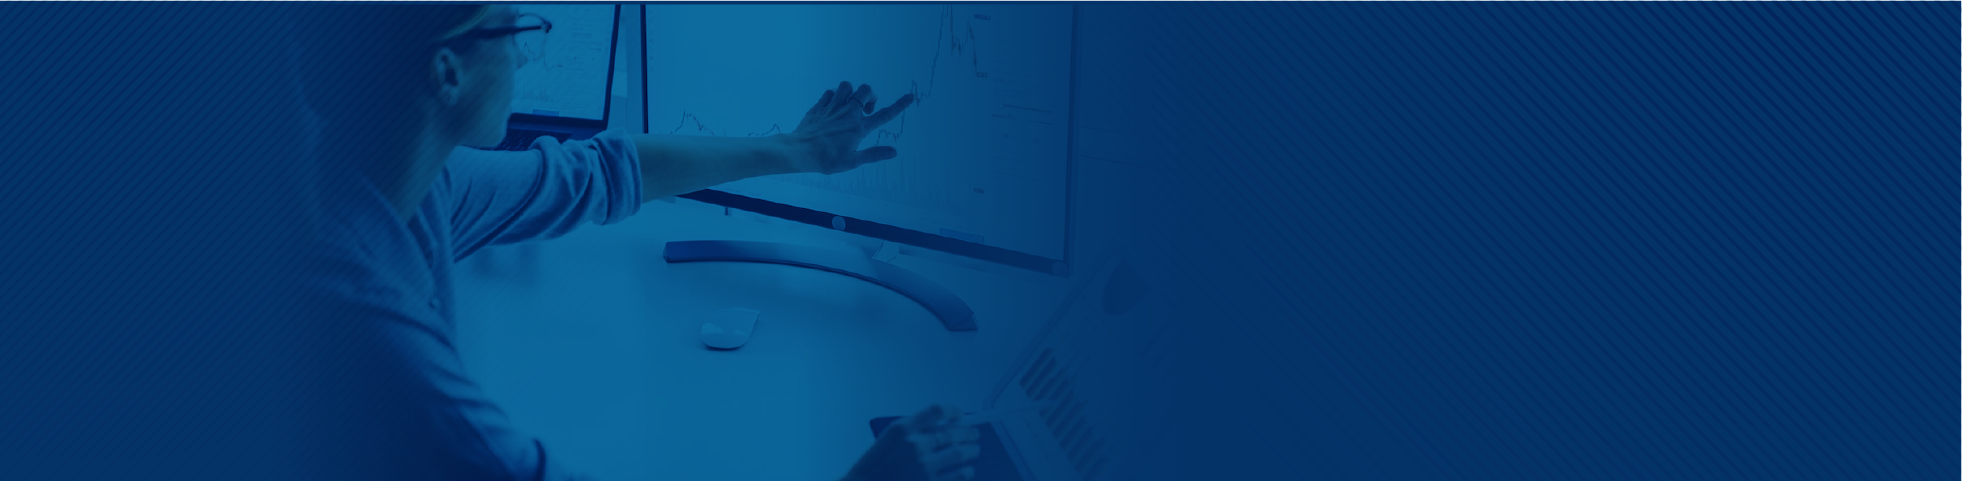
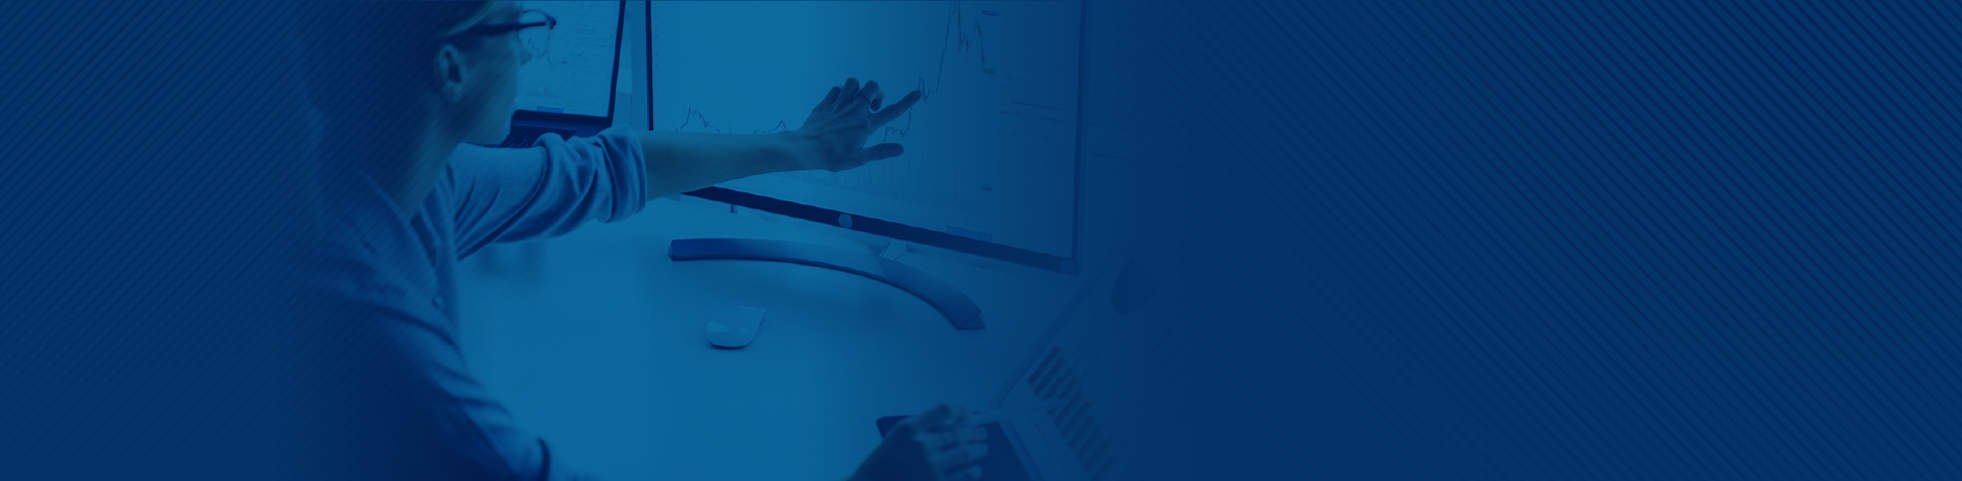
Header-changes

diff --git a/assets/css/style.css b/assets/css/style.css
@@ -35,8 +35,7 @@ li{
     min-height: 480px;
     background: url('../images/banner-image.png');
     background-repeat: no-repeat;
-    background-size: cover;
-    max-width: 1920px;
+    background-size: cover; 
     margin: 0 auto;
     padding: 0px 20px 2em 20px;
 }
@@ -45,6 +44,10 @@ li{
     max-width: 1200px;
     margin: 0px auto;
     padding-top: 3em;
+}
+
+.logo img{
+    width:300px
 }
 
 .form-container {
@@ -227,8 +230,7 @@ textarea {
 /*************** Footer Area ****************/
 
 
-#footer {
-    max-width: 1920px;
+#footer { 
     margin: 0 auto;
     padding: 3em 20px;
     min-height: 250px;
@@ -296,11 +298,6 @@ textarea {
 
 /*************** Footer Area Closed****************/
 
-@media(max-width:915px) {
-    .form-container { 
-        justify-content: center; 
-    }
-}
 
 @media (max-width:1071px){
     .content-container { 
@@ -308,3 +305,38 @@ textarea {
         
     }
 }
+
+@media(max-width:915px) {
+    .form-container { 
+        justify-content: center; 
+    }
+ 
+}
+@media(max-width:600px) {
+    .logo img{
+        width:240px
+    }
+    .heading-area h1 {
+        font-size: 3.5em; 
+    }
+    
+    .heading-area h4 {
+        font-size: 1.5em; 
+    }
+ 
+}
+@media(max-width:450px) {
+    .heading-area h1 {
+        font-size: 2.5em; 
+    }
+    
+    .heading-area h4 {
+        font-size: 1.3em; 
+    }
+    .logo img{
+        width:180px
+    }
+}
+
+
+

diff --git a/index.html b/index.html
@@ -14,7 +14,7 @@
     <header id="banner" class="banner-area">
         <div class="banner-container">
             <div class="logo">
-                <img src="assets/images/logo.png" alt="" width="300px">
+                <img src="assets/images/logo.png" alt="" >
             </div>
             <div class="form-container">
                 <div class="heading-area">
